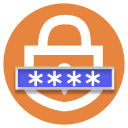
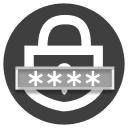
Modify design

diff --git a/style.css b/style.css
@@ -1,19 +1,56 @@
 html, body {
-    font-family: 'Source Sans Pro', sans-serif;
+    font-family: "NanumGothic", sans-serif;
     font-size: 14px;
     margin: 0;
     min-height: 300px;
     padding: 0;
     width: 384px;
 }
-
-h1 {
-    font-family: 'Source Sans Pro', sans-serif;
-    font-size: 18px;
-    font-weight: 400;
-    margin: 0;
-    color: #272727;
+.modal-header {
+    width: 384px;
+    height: 60px;
+    margin-left: 0px;
+    margin-top: 0px;
+    background: #838383;
 }
+.modal-content {
+    width: 280px;
+    height: 53px;
+    margin-left: 17px;
+    margin-top: 19px;
+}
+.content {
+    font-style: normal;
+    font-weight: normal;
+    font-size: 15px;
+    line-height: 15px;
+    display: flex;
+    align-items: center;
+
+    color: #000000;
+}
+h1 {
+    font-style: normal;
+    font-weight: 800;
+    font-size: 20px;
+    line-height: 20px;
+    display: flex;
+    justify-content: space-between;
+    align-items: center;
+    width: 384px;
+    padding: 12px;
+    color: #FFFFFF;
+
+    text-shadow: 0px 4px 4px rgba(0, 0, 0, 0.25);
+}
+.logo-icon {
+    width: 40px;
+    height: 40px;
+    filter: drop-shadow(1px 2px 4px rgba(0, 0, 0, 0.25));
+    padding: none;
+    margin-right: 12px;
+}
+
 a:link, a:visited {
     color: #222;
     outline: 0;
@@ -22,24 +59,16 @@ a:link, a:visited {
 img {
     width: 30px;
 }
-.modal-header {
-    align-items: center;
-    border-bottom: 0.5px, solid #dadada;
-}
-.modal-content {
-    padding: 0 22px;
+
+input {
+    border: none;
+    background-color: rgb(206, 206, 206);
+    min-width: 300px;
 }
 .modal-footer {
     border-top: 0.5px solid #dadada;
     height: 50px;
     width: 100%;
-}
-.logo {
-    padding: 16px
-}
-.logo-icon {
-    vertical-align: text-bottom;
-    margin-right: 12px;
 }
 .flex-container {
     display: flex;

diff --git a/popup.html b/popup.html
@@ -12,12 +12,13 @@
 <body>
     <div class="modal-header">
         <h1 class="logo">
-            <img src="images/icon_150.png" alt="Logo Image" class="logo-icon"> Password Generator
+            <span class="title">Password Generator</span>
+            <img src="images/icon_new_150.png" alt="Logo Image" class="logo-icon">
         </h1>
-        <p>Generate Your Password!</p>
     </div>
     <div class="modal-content">
-        <input type="text">
+        <p class="content">Type your key: </p>
+        <input type="text" >
     </div>
     <div class="modal-footer">
         <div class="flex-container">
